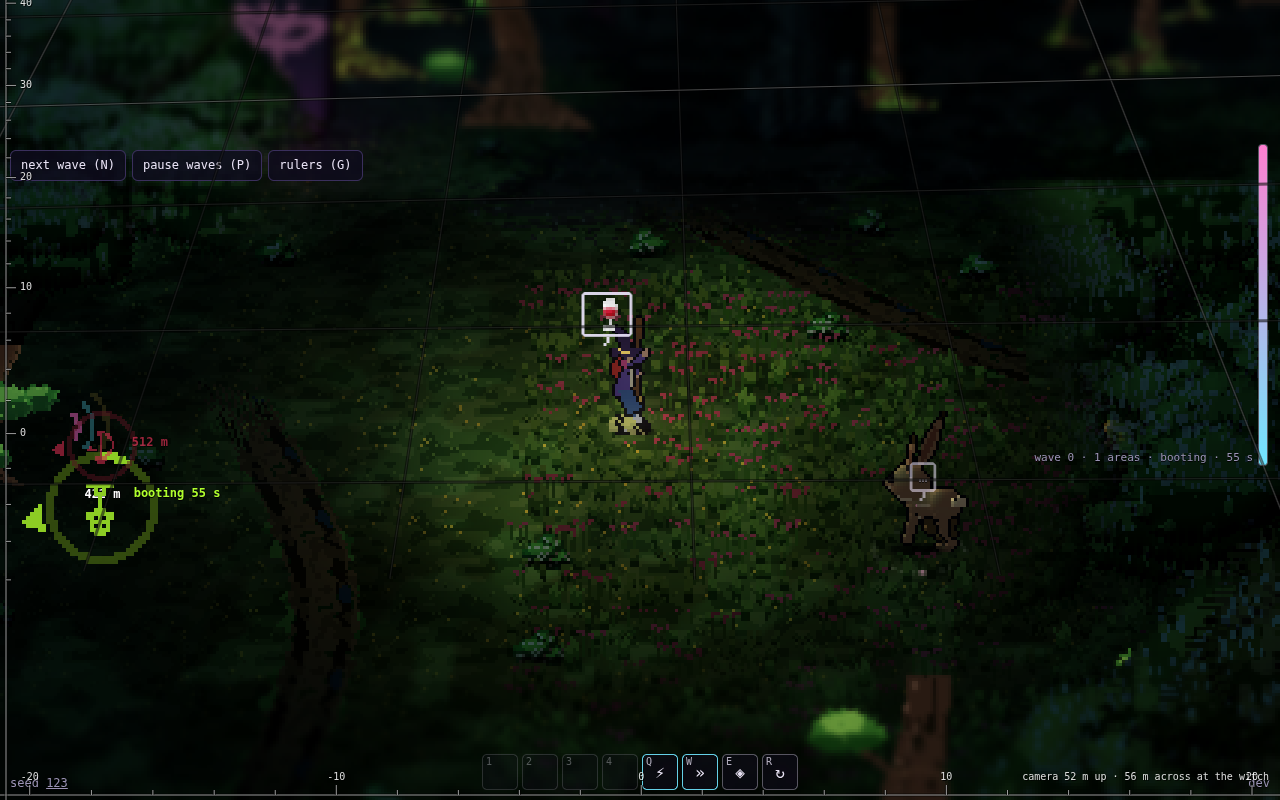
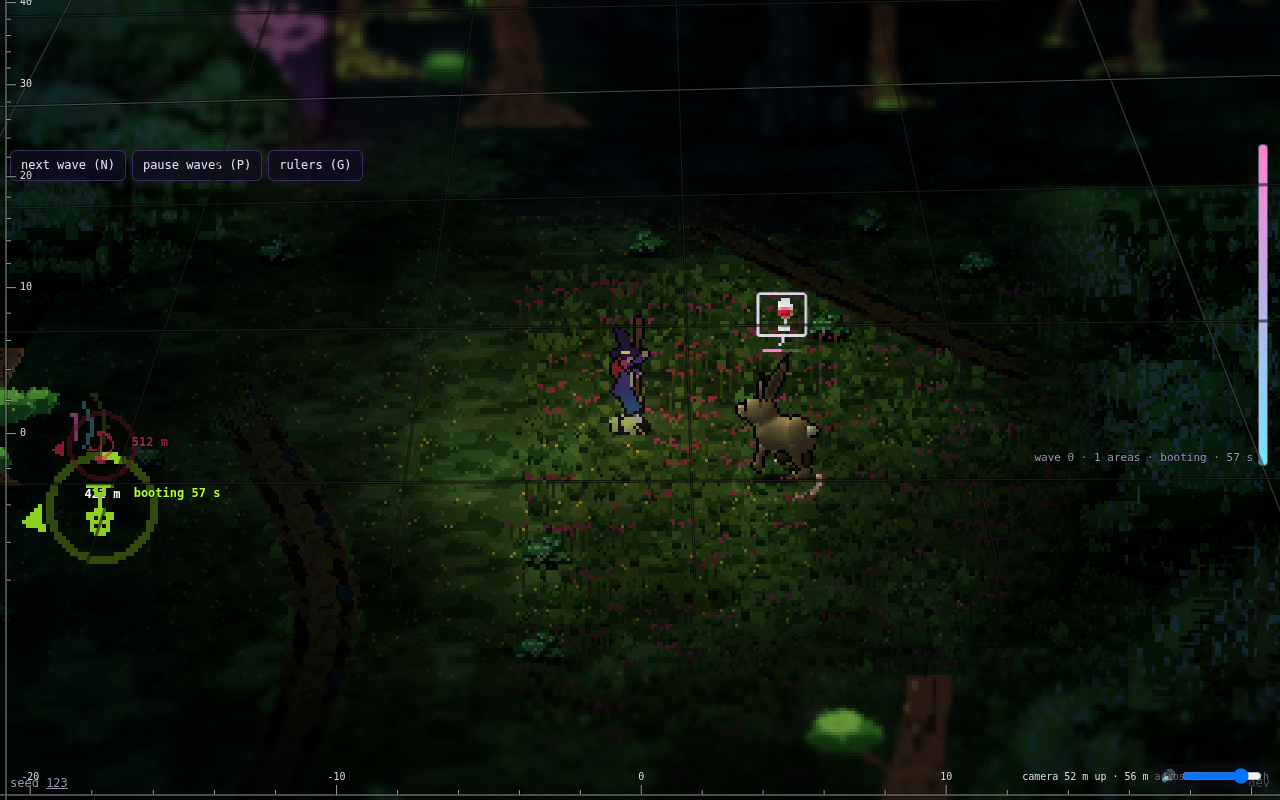
Sprites stand at the lowest ground of five points across their foot, up to 5 m either side (the rerun: wispy undergrowth still floated 1.8 px over a dip between three)
Claude-Session: https://claude.ai/code/session_01Bjkncrw3UwUjcmr8Y3vdKy

diff --git a/src/render/sprites.ts b/src/render/sprites.ts
@@ -72,11 +72,12 @@ varying float vSizeY;
 ${HEIGHT_VERT_GLSL}
 void main() {
   // Every sprite stands upright on the rolling ground (height.ts), at the lowest ground under its
-  // foot (most of its width, up to 4 m either side of its base): on a slope its uphill side is planted in the
+  // foot (most of its width, up to 5 m either side of its base, at five points): on a slope its uphill side is planted in the
   // hillside and nothing floats (Ed, v276: 50 m hills, too steep to skew sprites to).
   // (Or, for her, at the height given: she rides a smoothed height over the hills, ride.ts.)
-  float fw = min(iSize.x * 0.45, 4.0);
-  vec3 base = iPos + vec3(0.0, uAbsolute > 0.5 ? 0.0 : min(groundH(iPos.xz), min(groundH((iPos - uRight * fw).xz), groundH((iPos + uRight * fw).xz))), 0.0);
+  float fw = min(iSize.x * 0.45, 5.0);
+  float gl = min(min(groundH(iPos.xz), min(groundH((iPos - uRight * fw).xz), groundH((iPos + uRight * fw).xz))), min(groundH((iPos - uRight * fw * 0.5).xz), groundH((iPos + uRight * fw * 0.5).xz)));
+  vec3 base = iPos + vec3(0.0, uAbsolute > 0.5 ? 0.0 : gl, 0.0);
   // Tall and nearer the camera than the witch: it may stand in front of her.
   // Eased over a few metres of depth and of height, so nothing snaps into the fade as she moves.
   vFront = smoothstep(0.0, 3.0, uWitchDepth - 0.5 + (viewMatrix * vec4(base, 1.0)).z) * smoothstep(uOcc.z * 0.7, uOcc.z * 1.3, iSize.y);
